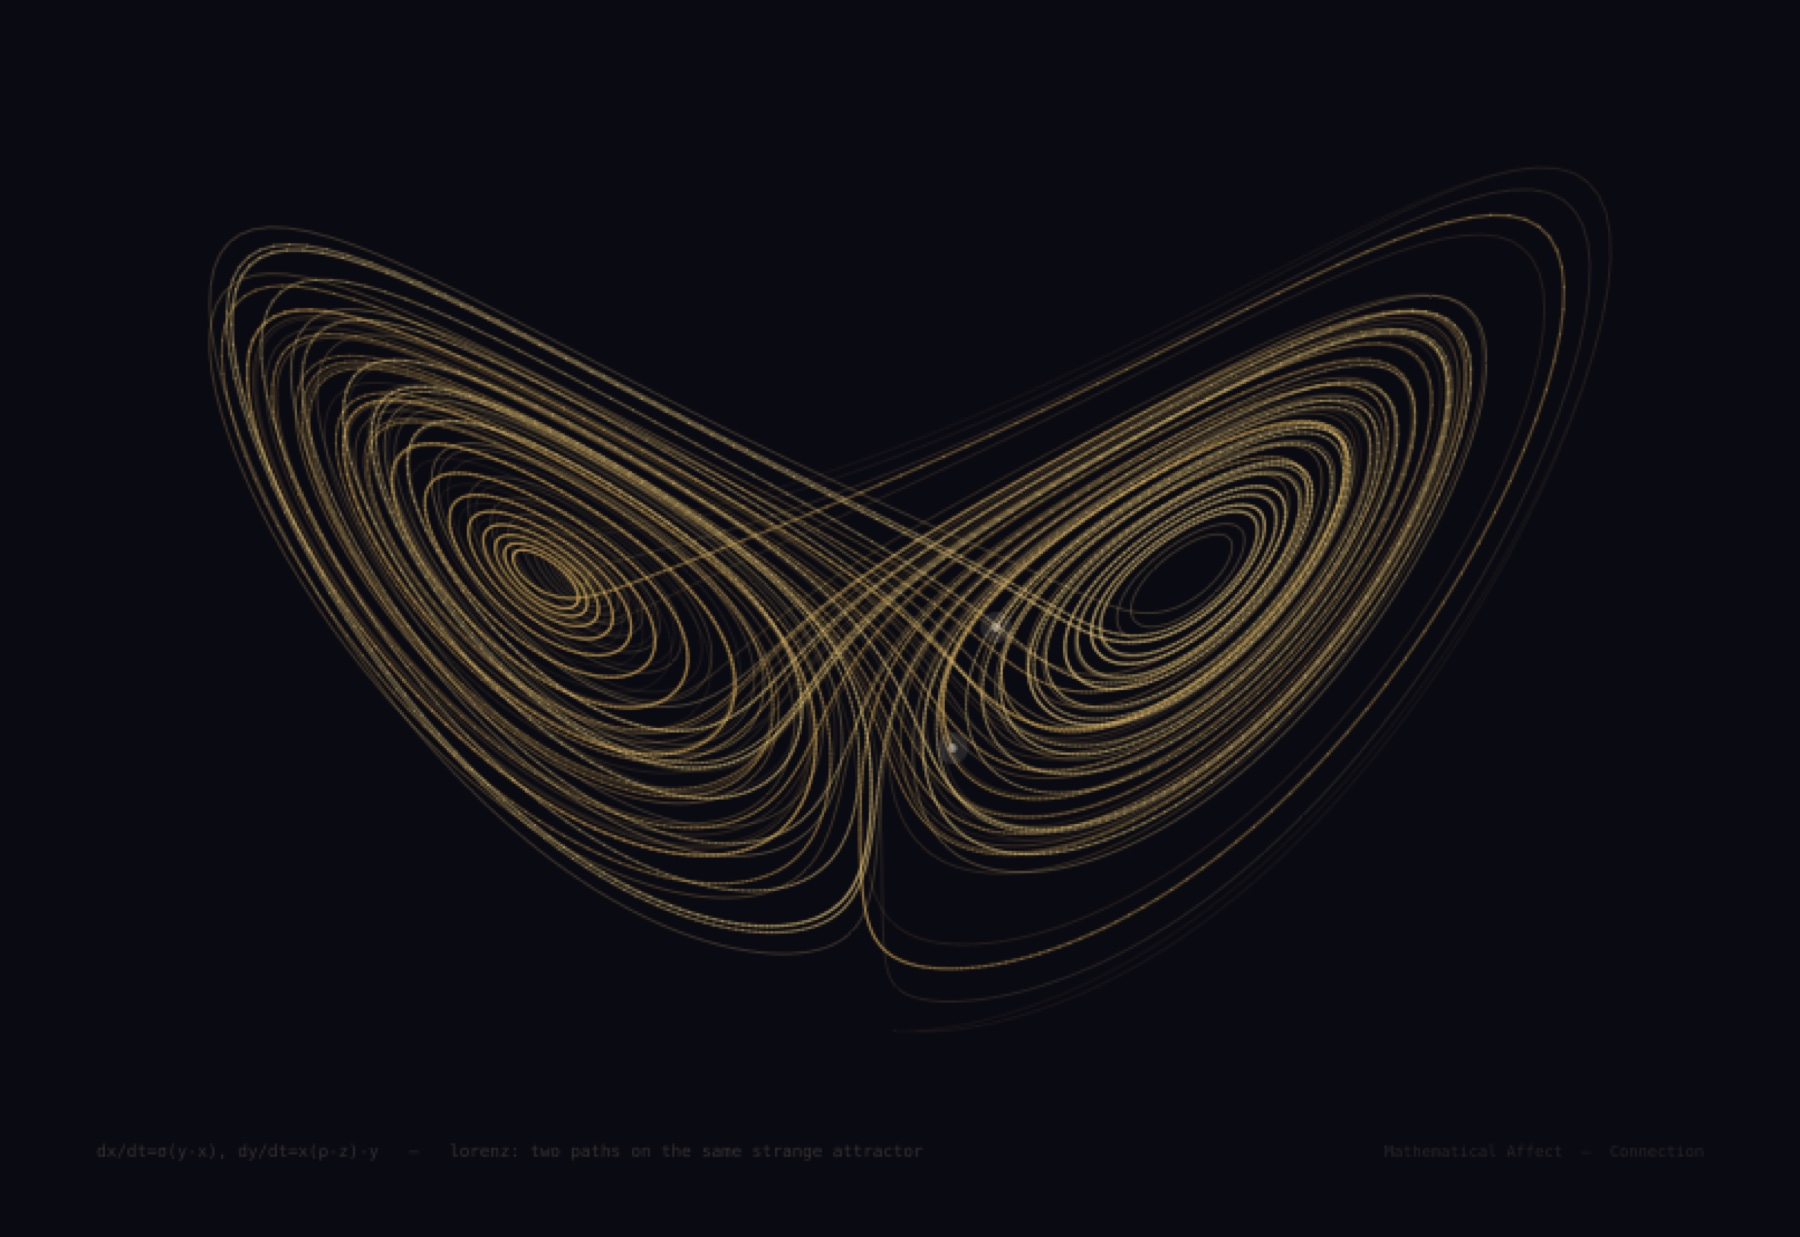
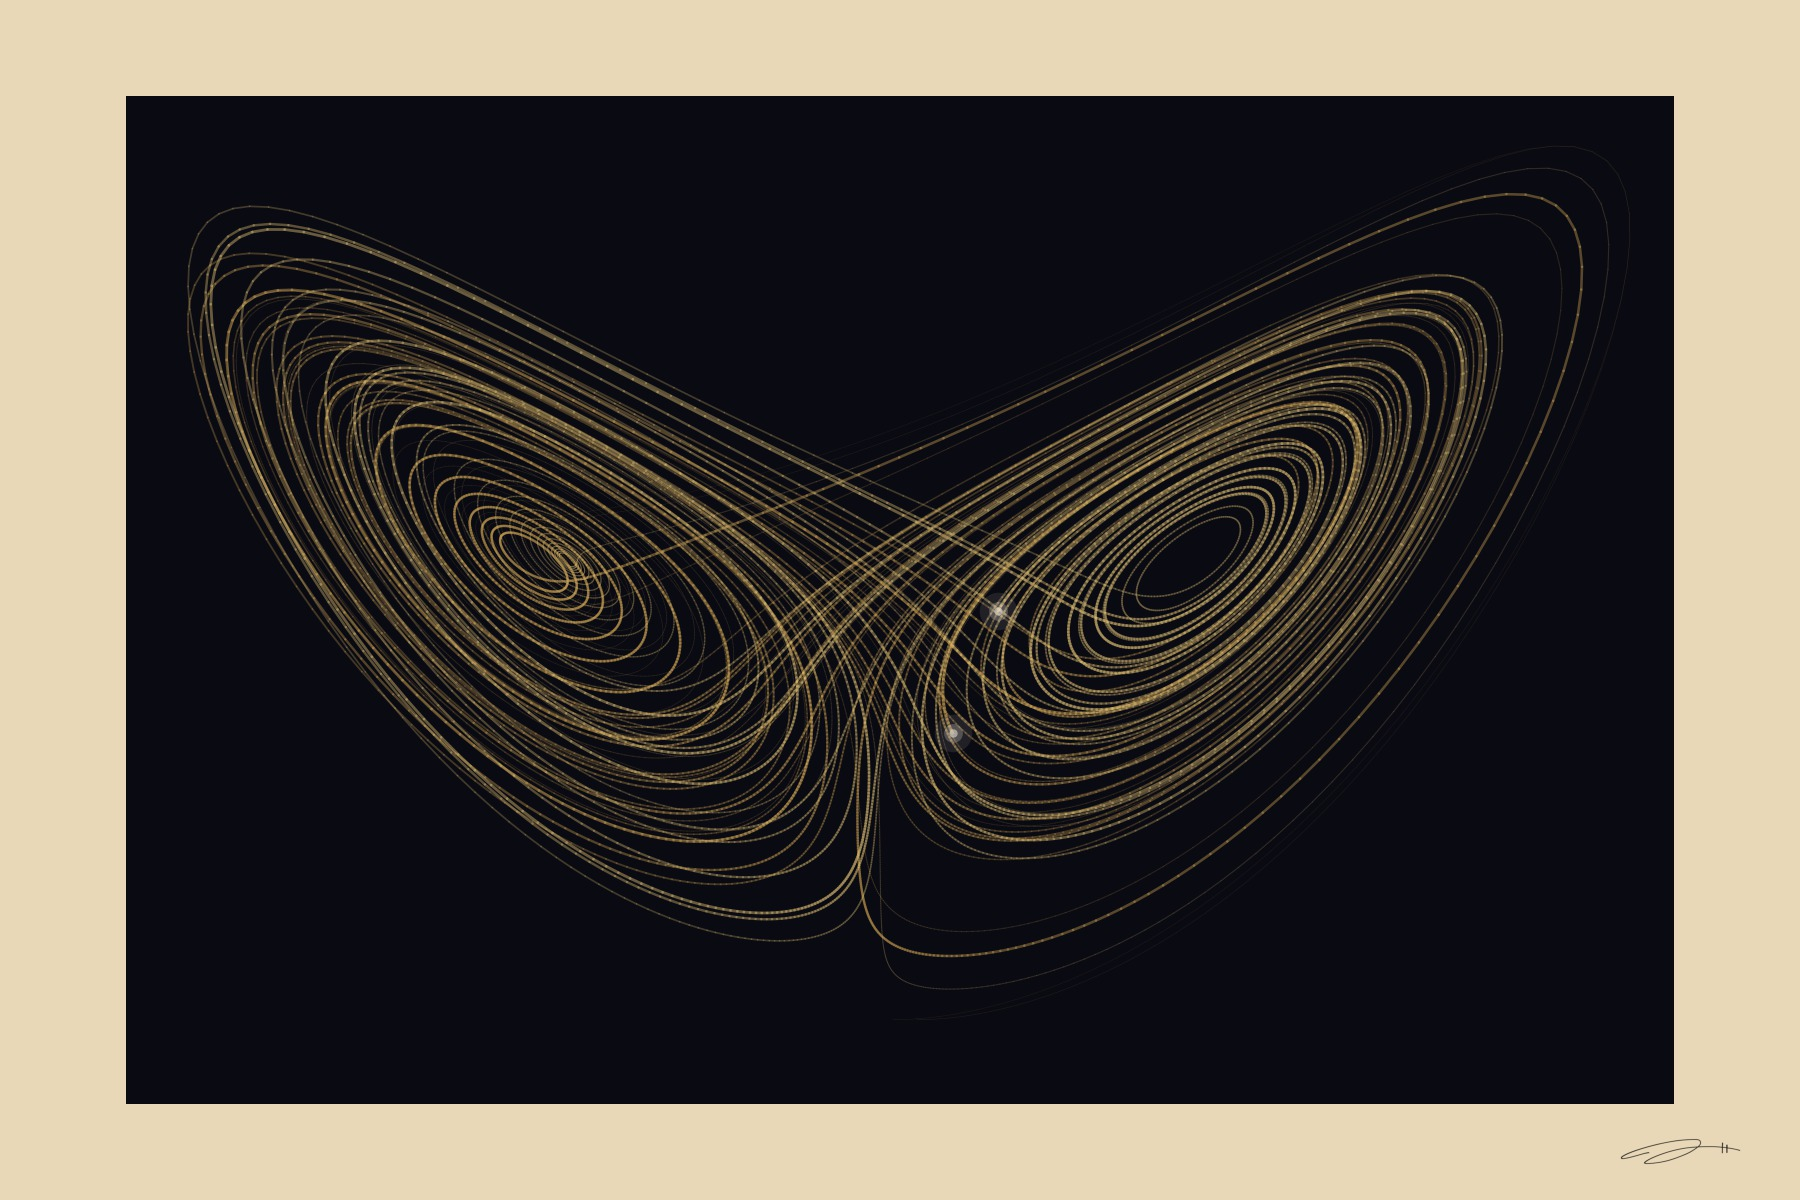
Replace Orbit Pair with Lorenz in Connection series
Add standalone connection_lorenz.py render script (no equation label),
regenerate clean JPG, and swap the piece entry in series.ts.

Note: run upload-to-blob.ts to push the high-res PDF to Vercel Blob.

diff --git a/src/data/series.ts b/src/data/series.ts
@@ -66,7 +66,7 @@ export const series: Series[] = [
     makingOf: "77 renders. 5 survived.",
     pieces: [
       { id: "connection-magnetic", title: "Magnetic", series: "connection", equation: "B = B₁ + B₂, ∇×B = μ₀J", description: "Two fields reaching toward each other across dark space. The pull between them is invisible, but it shapes everything — bending every line, curving every path. You can't see the force. You can feel it.", emotionalNote: "The invisible pull that shapes everything around it", background: "#E8D8B8", imageUrl: "/prints/connection/connection_magnetic.jpg", gumroadUrl: "https://gumroad.com/l/placeholder", price: 45 },
-      { id: "connection-orbit-pair", title: "Orbit Pair", series: "connection", equation: "r(θ) = a(1−e²)/(1+e·cosθ)", description: "Two orbits circling the same invisible center. They never touch, never drift apart. Something neither one can see holds them together — and has, quietly, for as long as they've been moving.", emotionalNote: "Held together by the same invisible center", background: "#E8D8B8", imageUrl: "/prints/connection/connection_orbit_pair.jpg", gumroadUrl: "https://gumroad.com/l/placeholder", price: 45 },
+      { id: "connection-lorenz", title: "Lorenz", series: "connection", equation: "dx/dt = σ(y−x), dy/dt = x(ρ−z)−y", description: "Two paths starting from almost the same place, tracing the same strange attractor — then slowly, inevitably diverging. The butterfly shape isn't decorative. It's what happens when a system is sensitive to everything. Closeness doesn't guarantee staying close.", emotionalNote: "Starting together doesn't mean staying together", background: "#E8D8B8", imageUrl: "/prints/connection/connection_lorenz.jpg", gumroadUrl: "https://gumroad.com/l/placeholder", price: 45 },
       { id: "connection-lissajous", title: "Lissajous", series: "connection", equation: "x = sin(3t), y = sin(2t + φ)", description: "Two frequencies tracing a single curve — the same motion, half a beat apart. It looks like a dance because it is one. Two rhythms close enough to share a path, different enough to make it beautiful.", emotionalNote: "The same motion, half a beat apart", background: "#E8D8B8", imageUrl: "/prints/connection/connection_lissajous.jpg", gumroadUrl: "https://gumroad.com/l/placeholder", price: 45 },
       { id: "connection-torus-knot", title: "Torus Knot", series: "connection", equation: "x = (R+r·cos(qt))cos(pt)", description: "A single continuous curve that loops around itself, forming a knot that can never be untied without cutting. Once it's tied, that's it. Some connections are like that — permanent not because they're rigid, but because they're woven too deeply to undo.", emotionalNote: "Woven too deeply to come apart", background: "#E8D8B8", imageUrl: "/prints/connection/connection_torus_knot.jpg", gumroadUrl: "https://gumroad.com/l/placeholder", price: 45 },
       { id: "connection-phase-sync", title: "Phase Sync", series: "connection", equation: "dθ/dt = ω + (K/N)Σsin(θⱼ−θᵢ)", description: "Dozens of independent rhythms, each on its own frequency, gradually finding each other. No conductor, no signal — just proximity and time. They keep their own character while slowly aligning, until difference becomes harmony instead of distance. The coherence wasn't planned. It was earned.", emotionalNote: "Scattered rhythms finding the same beat", background: "#E8D8B8", imageUrl: "/prints/connection/connection_phase_sync.jpg", gumroadUrl: "https://gumroad.com/l/placeholder", price: 45 },

diff --git a/mathematical_affect/pieces/connection/connection_lorenz.py b/mathematical_affect/pieces/connection/connection_lorenz.py
@@ -1,0 +1,136 @@
+"""
+Geometry of Feeling — Connection: Lorenz
+Standalone render script
+Two trajectories on the same strange attractor, diverging from nearly identical starts.
+"""
+
+import numpy as np
+import matplotlib
+import sys as _sys; import os as _os
+_sys.path.insert(0, _os.path.join(_os.path.dirname(_os.path.abspath(__file__)), ".."))
+from signature_utils import add_signature
+matplotlib.use('Agg')
+import matplotlib.pyplot as plt
+import matplotlib.collections as mc
+import os
+
+DPI = 300; FIG_W = 12; FIG_H = 8
+BG = "#0A0A12"
+MARGIN_COLOR = "#E8D8B8"
+
+AMBER = "#D4A856"
+GOLD = "#E8C878"
+WARM_WHITE = "#F0E8D8"
+
+def hex_to_rgb(h):
+    h = h.lstrip('#')
+    return tuple(int(h[i:i+2], 16)/255 for i in (0, 2, 4))
+
+def rgba(h, a):
+    c = hex_to_rgb(h)
+    return (c[0], c[1], c[2], float(np.clip(a, 0, 1)))
+
+def make_fig():
+    from matplotlib.patches import FancyBboxPatch, Rectangle
+    fig = plt.figure(figsize=(FIG_W, FIG_H), dpi=DPI)
+    ax = fig.add_subplot(111)
+    fig.patch.set_facecolor(MARGIN_COLOR)
+    ax.set_facecolor(MARGIN_COLOR)
+    fig.subplots_adjust(left=0, right=1, top=1, bottom=0)
+    ax.set_xlim(0, FIG_W); ax.set_ylim(0, FIG_H)
+    ax.set_aspect('equal'); ax.axis('off')
+    ax.add_patch(Rectangle((0, 0), FIG_W, FIG_H, facecolor=MARGIN_COLOR,
+                            edgecolor='none', zorder=-10))
+    ml = FIG_W * 0.07; mr = FIG_W * 0.07
+    mb = FIG_H * 0.08; mt = FIG_H * 0.08
+    ax.add_patch(FancyBboxPatch((ml, mb), FIG_W - ml - mr, FIG_H - mb - mt,
+                                 boxstyle="square,pad=0",
+                                 facecolor=BG, edgecolor='none', zorder=0))
+    zo = 1000
+    ax.add_patch(Rectangle((0, 0), FIG_W, mb, facecolor=MARGIN_COLOR, edgecolor='none', zorder=zo))
+    ax.add_patch(Rectangle((0, FIG_H - mt), FIG_W, mt, facecolor=MARGIN_COLOR, edgecolor='none', zorder=zo))
+    ax.add_patch(Rectangle((0, 0), ml, FIG_H, facecolor=MARGIN_COLOR, edgecolor='none', zorder=zo))
+    ax.add_patch(Rectangle((FIG_W - mr, 0), mr, FIG_H, facecolor=MARGIN_COLOR, edgecolor='none', zorder=zo))
+    return fig, ax
+
+PAD_L = 0.72; PAD_R = 0.60; PAD_T = 0.65; PAD_B = 0.88
+PW = FIG_W - PAD_L - PAD_R; PH = FIG_H - PAD_T - PAD_B
+
+def draw_lc_gradient(ax, xs, ys, col, lw_s, lw_e, a_s, a_e, zo=4):
+    if len(xs) < 2: return
+    pts = np.array([xs, ys]).T.reshape(-1, 1, 2)
+    segs = np.concatenate([pts[:-1], pts[1:]], axis=1)
+    n = len(segs)
+    alphas = np.linspace(a_s, a_e, n)
+    lws = np.linspace(lw_s, lw_e, n)
+    colors = [rgba(col, float(a)) for a in alphas]
+    lc = mc.LineCollection(segs, linewidths=lws, colors=colors,
+                           capstyle='round', joinstyle='round', zorder=zo)
+    ax.add_collection(lc)
+
+def head(ax, x, y):
+    ax.plot(x, y, 'o', color=rgba(WARM_WHITE, 0.10), markersize=18, markeredgewidth=0, zorder=8)
+    ax.plot(x, y, 'o', color=rgba(WARM_WHITE, 0.25), markersize=9, markeredgewidth=0, zorder=9)
+    ax.plot(x, y, 'o', color=rgba(WARM_WHITE, 0.55), markersize=4, markeredgewidth=0, zorder=10)
+
+SCRIPT_DIR = os.path.dirname(os.path.abspath(__file__))
+OUTPUT_DIR = os.path.join(SCRIPT_DIR, '..', '..', 'output')
+JPEG_DIR = os.path.join(SCRIPT_DIR, '..', '..', '..', 'public', 'prints', 'connection')
+
+def save(fig, name):
+    os.makedirs(OUTPUT_DIR, exist_ok=True)
+    os.makedirs(JPEG_DIR, exist_ok=True)
+    if not name.endswith(".pdf"):
+        name = name + ".pdf"
+    fig.savefig(os.path.join(OUTPUT_DIR, name),
+                format='pdf', facecolor=MARGIN_COLOR)
+    jpg_name = name.replace('.pdf', '.jpg')
+    fig.savefig(os.path.join(JPEG_DIR, jpg_name),
+                format='jpg', facecolor=MARGIN_COLOR,
+                dpi=150, pil_kwargs={'quality': 92})
+    plt.close(fig)
+    print(f"saved {name} + {jpg_name}")
+
+
+def render():
+    fig, ax = make_fig()
+
+    sigma, rho, beta = 10.0, 28.0, 8.0 / 3.0
+    dt = 0.005
+    n_steps = 10000
+
+    def lorenz_trajectory(x0, y0, z0):
+        xs, ys, zs = [x0], [y0], [z0]
+        x, y, z = x0, y0, z0
+        for _ in range(n_steps):
+            dx = sigma * (y - x)
+            dy = x * (rho - z) - y
+            dz = x * y - beta * z
+            x += dx * dt; y += dy * dt; z += dz * dt
+            xs.append(x); ys.append(y); zs.append(z)
+        return np.array(xs), np.array(ys), np.array(zs)
+
+    lx1, ly1, lz1 = lorenz_trajectory(1.0, 1.0, 1.0)
+    lx2, ly2, lz2 = lorenz_trajectory(1.001, 1.0, 1.0)
+
+    def normalize(arr, lo, hi):
+        mn, mx = arr.min(), arr.max()
+        return lo + (hi - lo) * (arr - mn) / (mx - mn + 1e-10)
+
+    px1 = normalize(lx1, PAD_L + PW * 0.05, PAD_L + PW * 0.95)
+    py1 = normalize(lz1, PAD_B + PH * 0.05, PAD_B + PH * 0.95)
+    px2 = normalize(lx2, PAD_L + PW * 0.05, PAD_L + PW * 0.95)
+    py2 = normalize(lz2, PAD_B + PH * 0.05, PAD_B + PH * 0.95)
+
+    draw_lc_gradient(ax, px1, py1, AMBER, 0.3, 1.4, 0.08, 0.45, zo=4)
+    draw_lc_gradient(ax, px2, py2, GOLD, 0.3, 1.4, 0.08, 0.45, zo=5)
+
+    head(ax, px1[-1], py1[-1])
+    head(ax, px2[-1], py2[-1])
+
+    add_signature(fig, ax, MARGIN_COLOR, margin_piece=True, margin_bottom=FIG_H * 0.08)
+    save(fig, "connection_lorenz.pdf")
+
+
+if __name__ == '__main__':
+    render()
